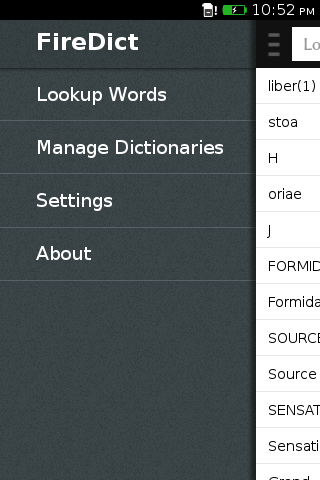
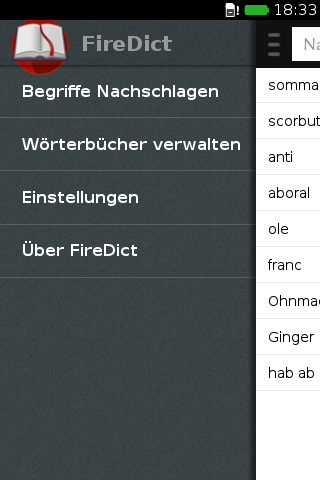
Update README and screenshot

diff --git a/README.md b/README.md
@@ -3,11 +3,6 @@ firedict
 
 A simple offline dictionary software for Firefox OS
 
-There are still major problems with the way dictionaries are stored internally.
-Last modifications brought a slight improvement in performance.
-But still, the UI doesn't feel smooth enough (word lookup should be significantly
-faster).
-
 ![screenshot0](https://raw.github.com/tuxor1337/firedict/master/screen0.png "drawer") # 
 ![screenshot1](https://raw.github.com/tuxor1337/firedict/master/screen1.png "list of matches")
 
